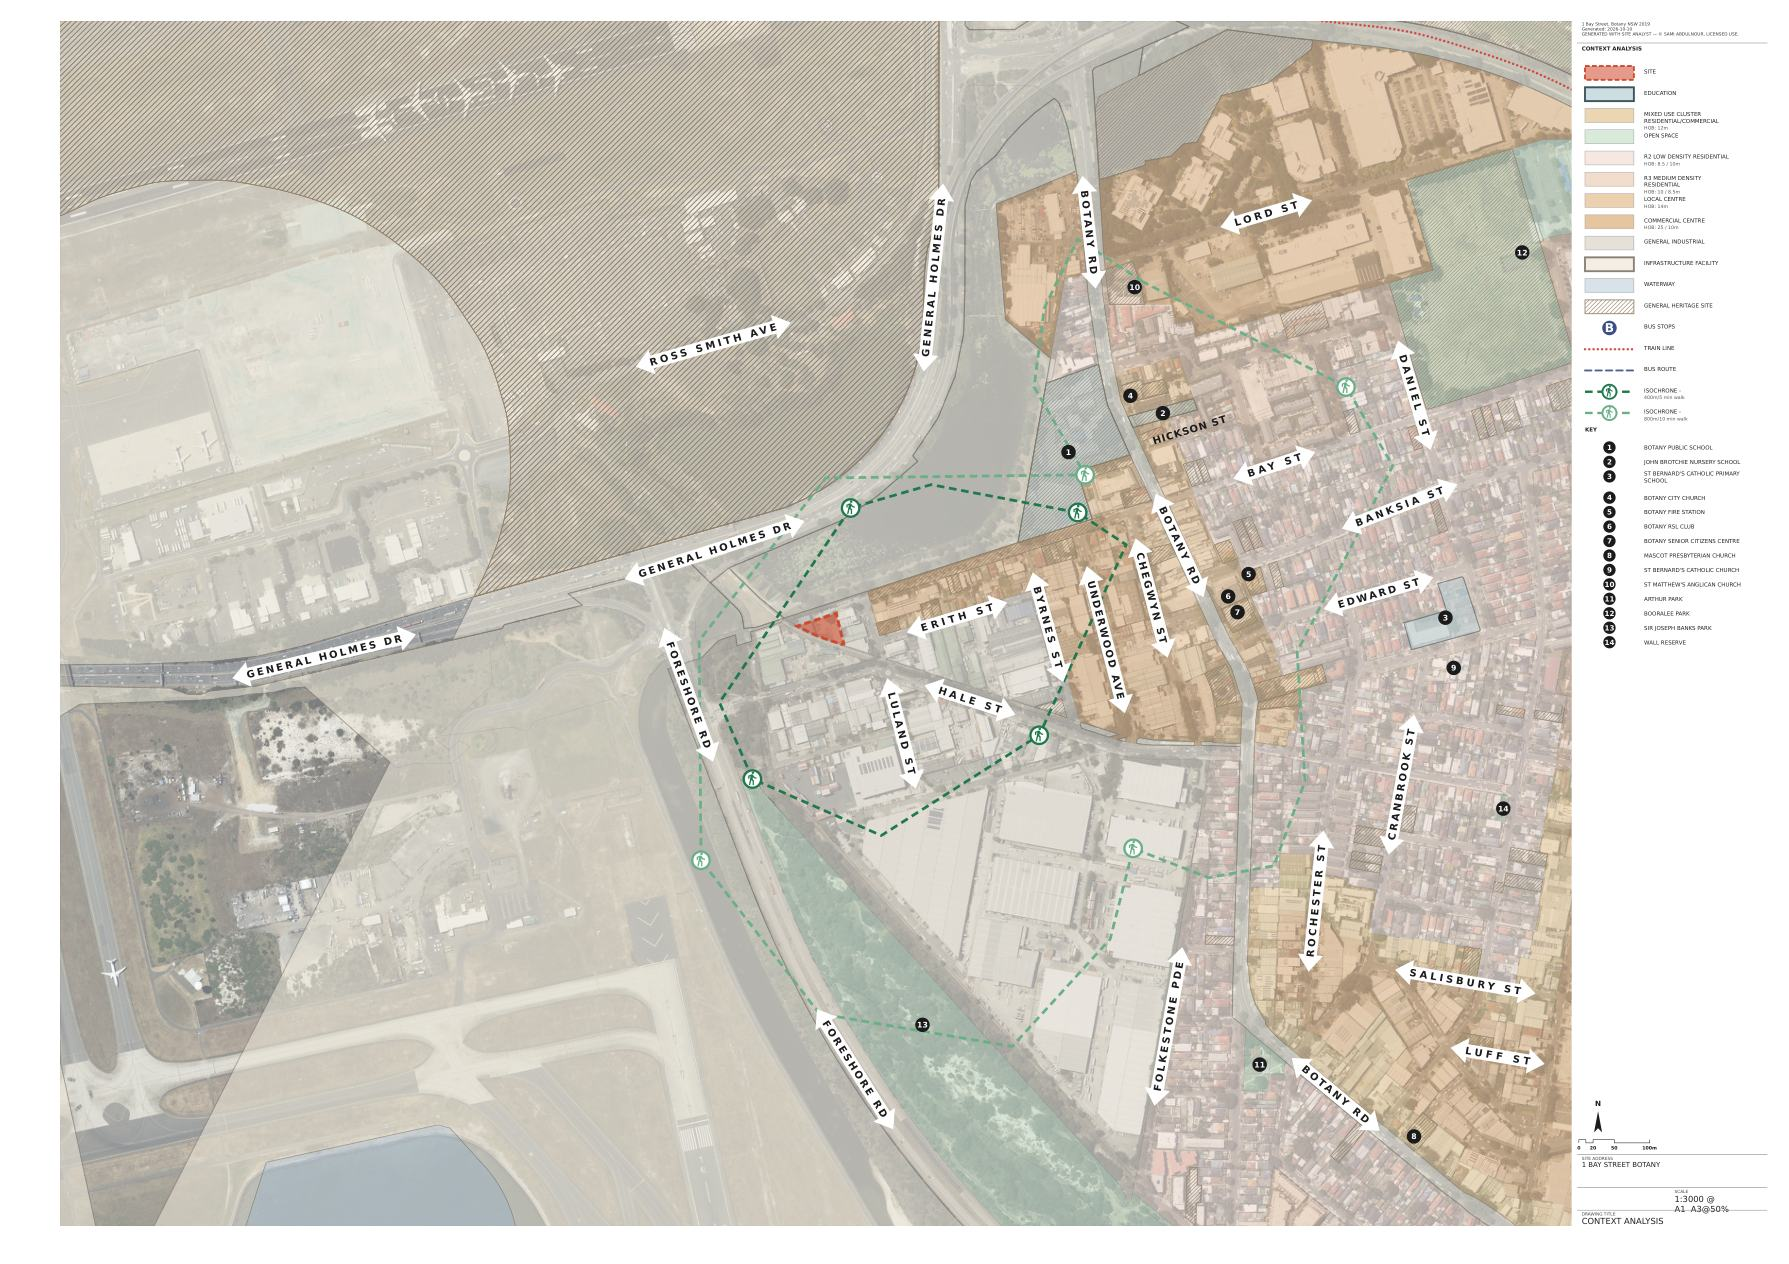
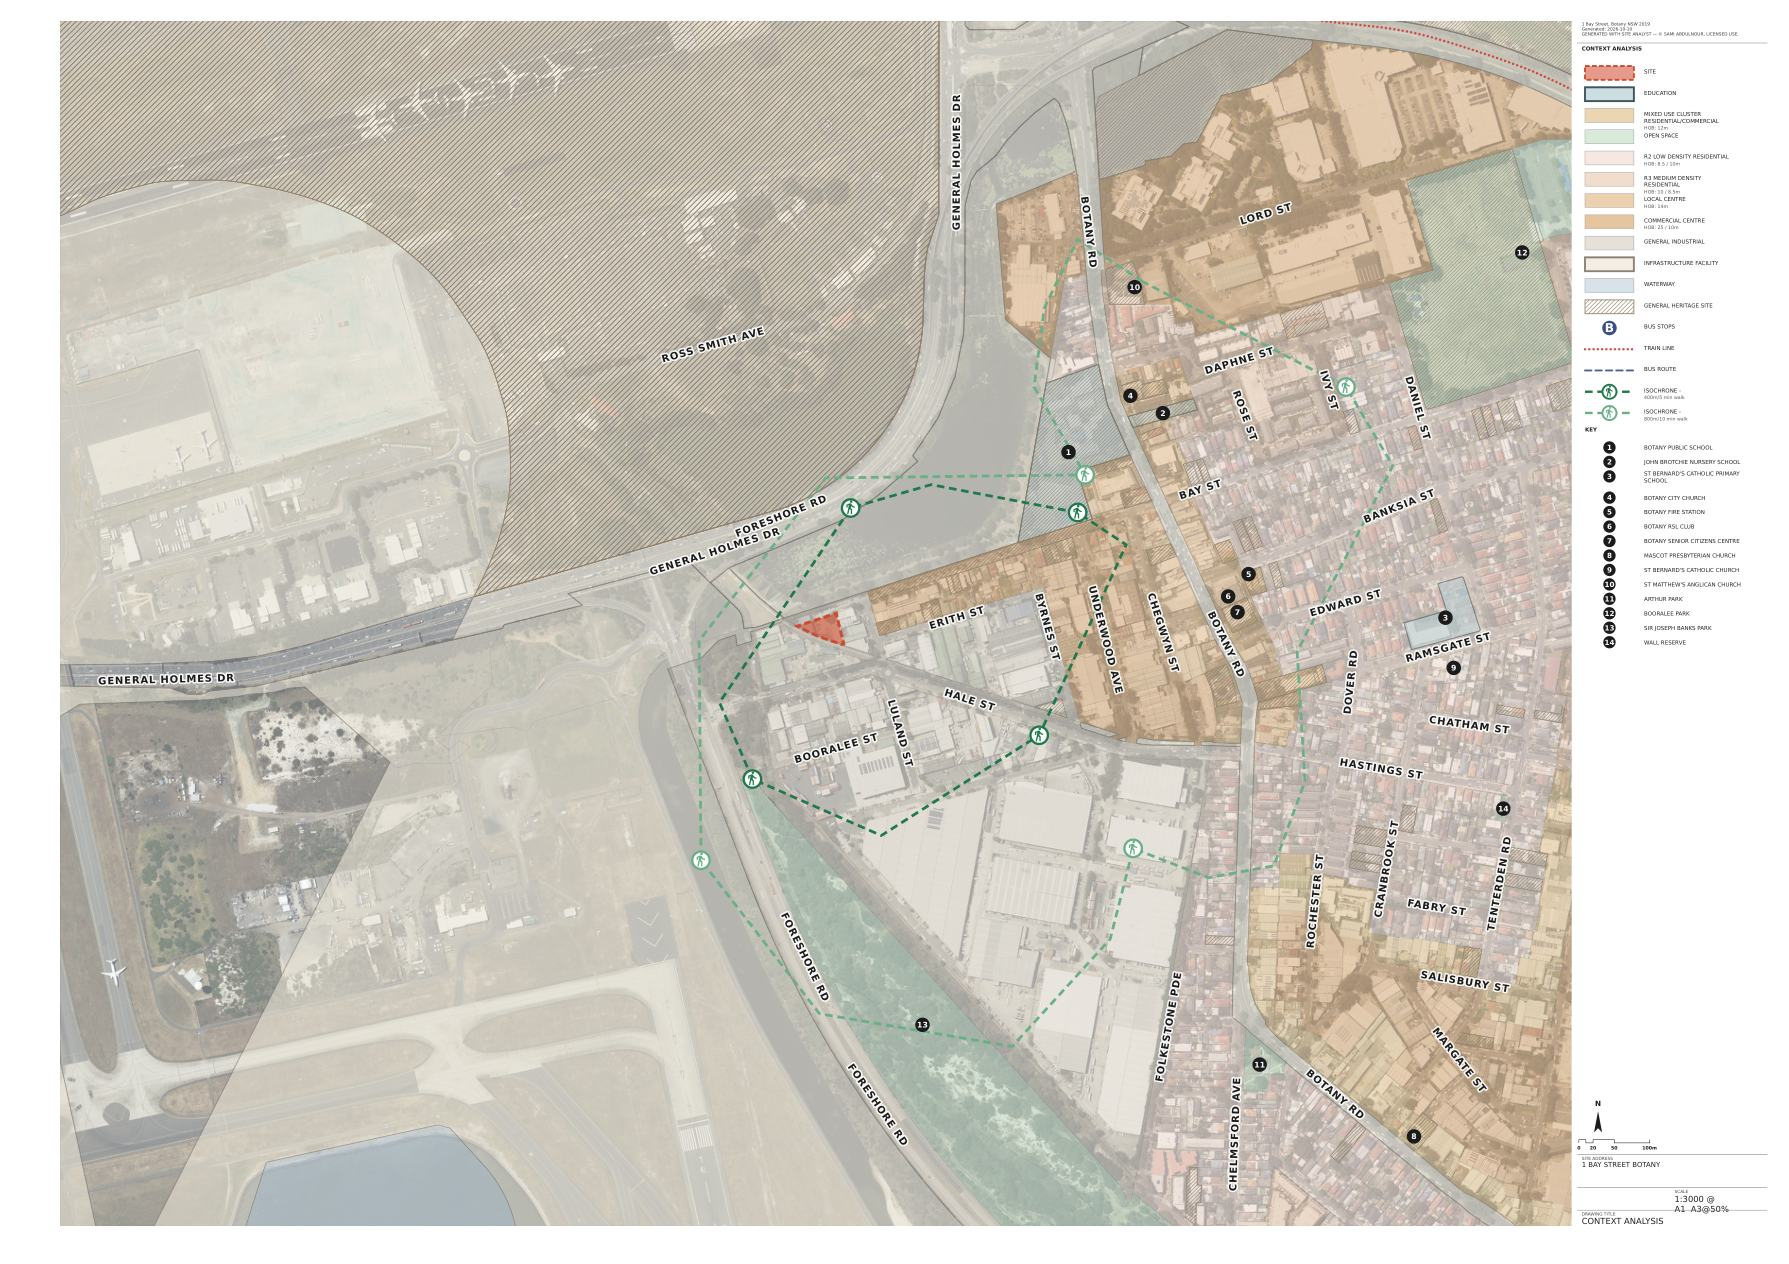
Heron: street names with a white back-contour instead of arrow bands
The names sit along the road in bold black over the aerial, each with a thin
white contour drawn under it so it reads over the photo. The arrow-band
labeller stays available as streetLabels: 'band'.

Claude-Session: https://claude.ai/code/session_01RgQLhzf6Uiv4rCaYoXs4QT

diff --git a/src/render/sheet.ts b/src/render/sheet.ts
@@ -1123,12 +1123,16 @@ export function renderSheet(bundle: Bundle, meta: SheetMeta): string {
     // The name is centred on the street's own line: a cap height of about
     // 0.72 em lifted by half of that puts the letters' middle on the path.
     const streetDy = (T.street * 0.36).toFixed(2);
+    const narrowStreets = /narrow|condensed/i.test(tpl().streetFont);
+    // Over the aerial there is no white street to sit on, so the name carries
+    // its own white back-contour: a stroked copy under the filled one.
+    const halo = tpl().streetLabels === 'halo';
     for (const [name, r] of roadOrder) {
       const label = shortStreetName(name);
       // Must be an over-estimate: a name wider than the path it is set on has
       // its overflowing glyphs clamped onto the ends and they pile up. The
       // narrow face runs about four fifths the width of the grotesk.
-      const textLen = label.length * (T.street * 0.58 + 0.4) + 3;
+      const textLen = label.length * (T.street * (narrowStreets ? 0.58 : 0.72) + 0.4) + 3;
       const slack = 6;   // spare road either side of the name
       const slotLen = textLen + slack;
 
@@ -1180,8 +1184,14 @@ export function renderSheet(bundle: Bundle, meta: SheetMeta): string {
           const id = `rd${rid++}`;
           const d2 = pts.map((p, i2) => `${i2 === 0 ? 'M' : 'L'}${p[0].toFixed(2)},${p[1].toFixed(2)}`).join('');
           roadDefs.push(`<path id="${id}" d="${d2}" fill="none"/>`);
-          roadTexts.push(`<text font-family="${tpl().streetFont}" font-size="${T.street}" font-weight="700" letter-spacing="0.4" dy="${streetDy}" fill="${tpl().streetInk}">
-            <textPath href="#${id}" startOffset="50%" text-anchor="middle">${esc(label)}</textPath></text>`);
+          const textAttrs = `font-family="${tpl().streetFont}" font-size="${T.street}" font-weight="700" letter-spacing="0.4" dy="${streetDy}"`;
+          const textPath = `<textPath href="#${id}" startOffset="50%" text-anchor="middle">${esc(label)}</textPath>`;
+          if (halo) {
+            roadTexts.push(`<text ${textAttrs} fill="none" stroke="#ffffff" stroke-width="${(T.street * 0.32).toFixed(2)}" stroke-linejoin="round" opacity="0.9">
+            ${textPath}</text>`);
+          }
+          roadTexts.push(`<text ${textAttrs} fill="${tpl().streetInk}">
+            ${textPath}</text>`);
         }
       }
     }

diff --git a/src/render/template.ts b/src/render/template.ts
@@ -7,7 +7,7 @@
 // is deliberately not part of a template.
 //
 // Heron is the office sheet the restyle started from — the first palette over
-// the aerial, white arrow bands on the street names, dashed catchments with
+// the aerial, street names with a white back-contour, dashed catchments with
 // the walker — with Flamingo's stop symbols, red dotted railway and numbered
 // places. Before it, two palettes, each in two versions. Flamingo is the paper-and-tints style
 // the context sheet was redrawn in (four hue families with textures, white
@@ -88,8 +88,8 @@ export interface Template {
   tintScale?: number;
   /** The road network as white strips over the tints, or not drawn (the aerial shows the streets). */
   streets?: 'white' | 'none';
-  /** Street names plain along the road, or a through street's name in a white double-headed arrow band (lanes stay plain). */
-  streetLabels?: 'plain' | 'band';
+  /** Street names plain along the road, plain with a white back-contour (to read over the aerial), or a through street's name in a white double-headed arrow band (lanes stay plain). */
+  streetLabels?: 'plain' | 'halo' | 'band';
 
   /** Land-use fills for the context sheet legend. */
   categories: Category[];
@@ -270,7 +270,7 @@ export const TEMPLATES: Template[] = [
     site: '#cf4a2e', dimension: '#3c4c5a', wind: '#6d8a99', sun: '#f0e4c0', road: '#7d7d7d', water: '#cbdae2',
     transit: NAVY, rail: '#d43d33', walk5: '#1f7a4d', walk10: '#6aaf88', busRoute: '#7a8bb0', heritage: '#94836a',
     isochrone: 'walkers', roundel: 'solid', busLine: 'dashed', railLine: 'dotted',
-    ground: 'aerial', veil: 0.36, tintScale: 1, footprints: 'none', streets: 'none', streetLabels: 'band',
+    ground: 'aerial', veil: 0.36, tintScale: 1, footprints: 'none', streets: 'none', streetLabels: 'halo',
     categories: HERON_CATEGORIES },
   { id: 'redfern-aerial',  label: 'Redfern aerial',  note: 'the Redfern deck\'s palette thinned over the aerial, buildings as a light outline',
     ...REDFERN,  ground: 'aerial', footprints: 'outline' },

diff --git a/web/app.js b/web/app.js
@@ -36,7 +36,7 @@ const STYLES = [
   ['flamingo-aerial', 'flamingo aerial', '/samples/context-flamingo-aerial.jpg', 'Flamingo aerial — the tints thinned over the photograph, buildings outlined'],
   ['redfern-white',   'redfern',         '/samples/context-redfern-white.jpg',   'Redfern — the deck\'s palette on paper, every building white'],
   ['redfern-aerial',  'redfern aerial',  '/samples/context-redfern-aerial.jpg',  'Redfern aerial — the deck\'s palette over the photograph, buildings outlined'],
-  ['heron',           'heron',           '/samples/context-heron.jpg',           'Heron — the office sheet over the aerial: arrow-banded streets, numbered places'],
+  ['heron',           'heron',           '/samples/context-heron.jpg',           'Heron — the office sheet over the aerial: haloed street names, numbered places'],
 ];
 const NORTH = [
   ['north', 'up',    '/samples/site.jpg',       'north up — the sheet is oriented to north'],

diff --git a/README.md b/README.md
@@ -470,8 +470,9 @@ from — five templates.
 under a light white veil with the tints at full strength over it (the palette
 sampled from that sheet's legend — tan mixed use and centres, peach
 residential, mint open space, the institutions in outlined slate blues), no
-building footprints and no white street strips, the through streets' names
-in white double-headed arrow bands, lanes named plainly, and the walking
+building footprints and no white street strips, every street named in bold
+black with a thin white back-contour so it reads over the photo (no arrow
+bands; `streetLabels: 'band'` brings them back), and the walking
 catchments as dashed green lines with walker medallions. From Flamingo it
 takes the solid stop roundels, the red dotted railway and the numbered
 places with their key, the discs in black.
@@ -737,7 +738,8 @@ address
 
 On the context sheet every street carries its name as plain bold text set
 along, and centred on, its white strip; the width of the strip already says
-whether it is an arterial or a lane. The white double-headed arrow band survives
+whether it is an arterial or a lane (Heron, with no strips, gives the name a
+white back-contour instead). The white double-headed arrow band survives
 on the site sheet only, where a through street carries its name in the band and
 a laneway gets a plain label. Neither of the two fields NSW publishes decides
 that on its own — Dickson Lane is classified `LocalRoad` exactly like Hall
